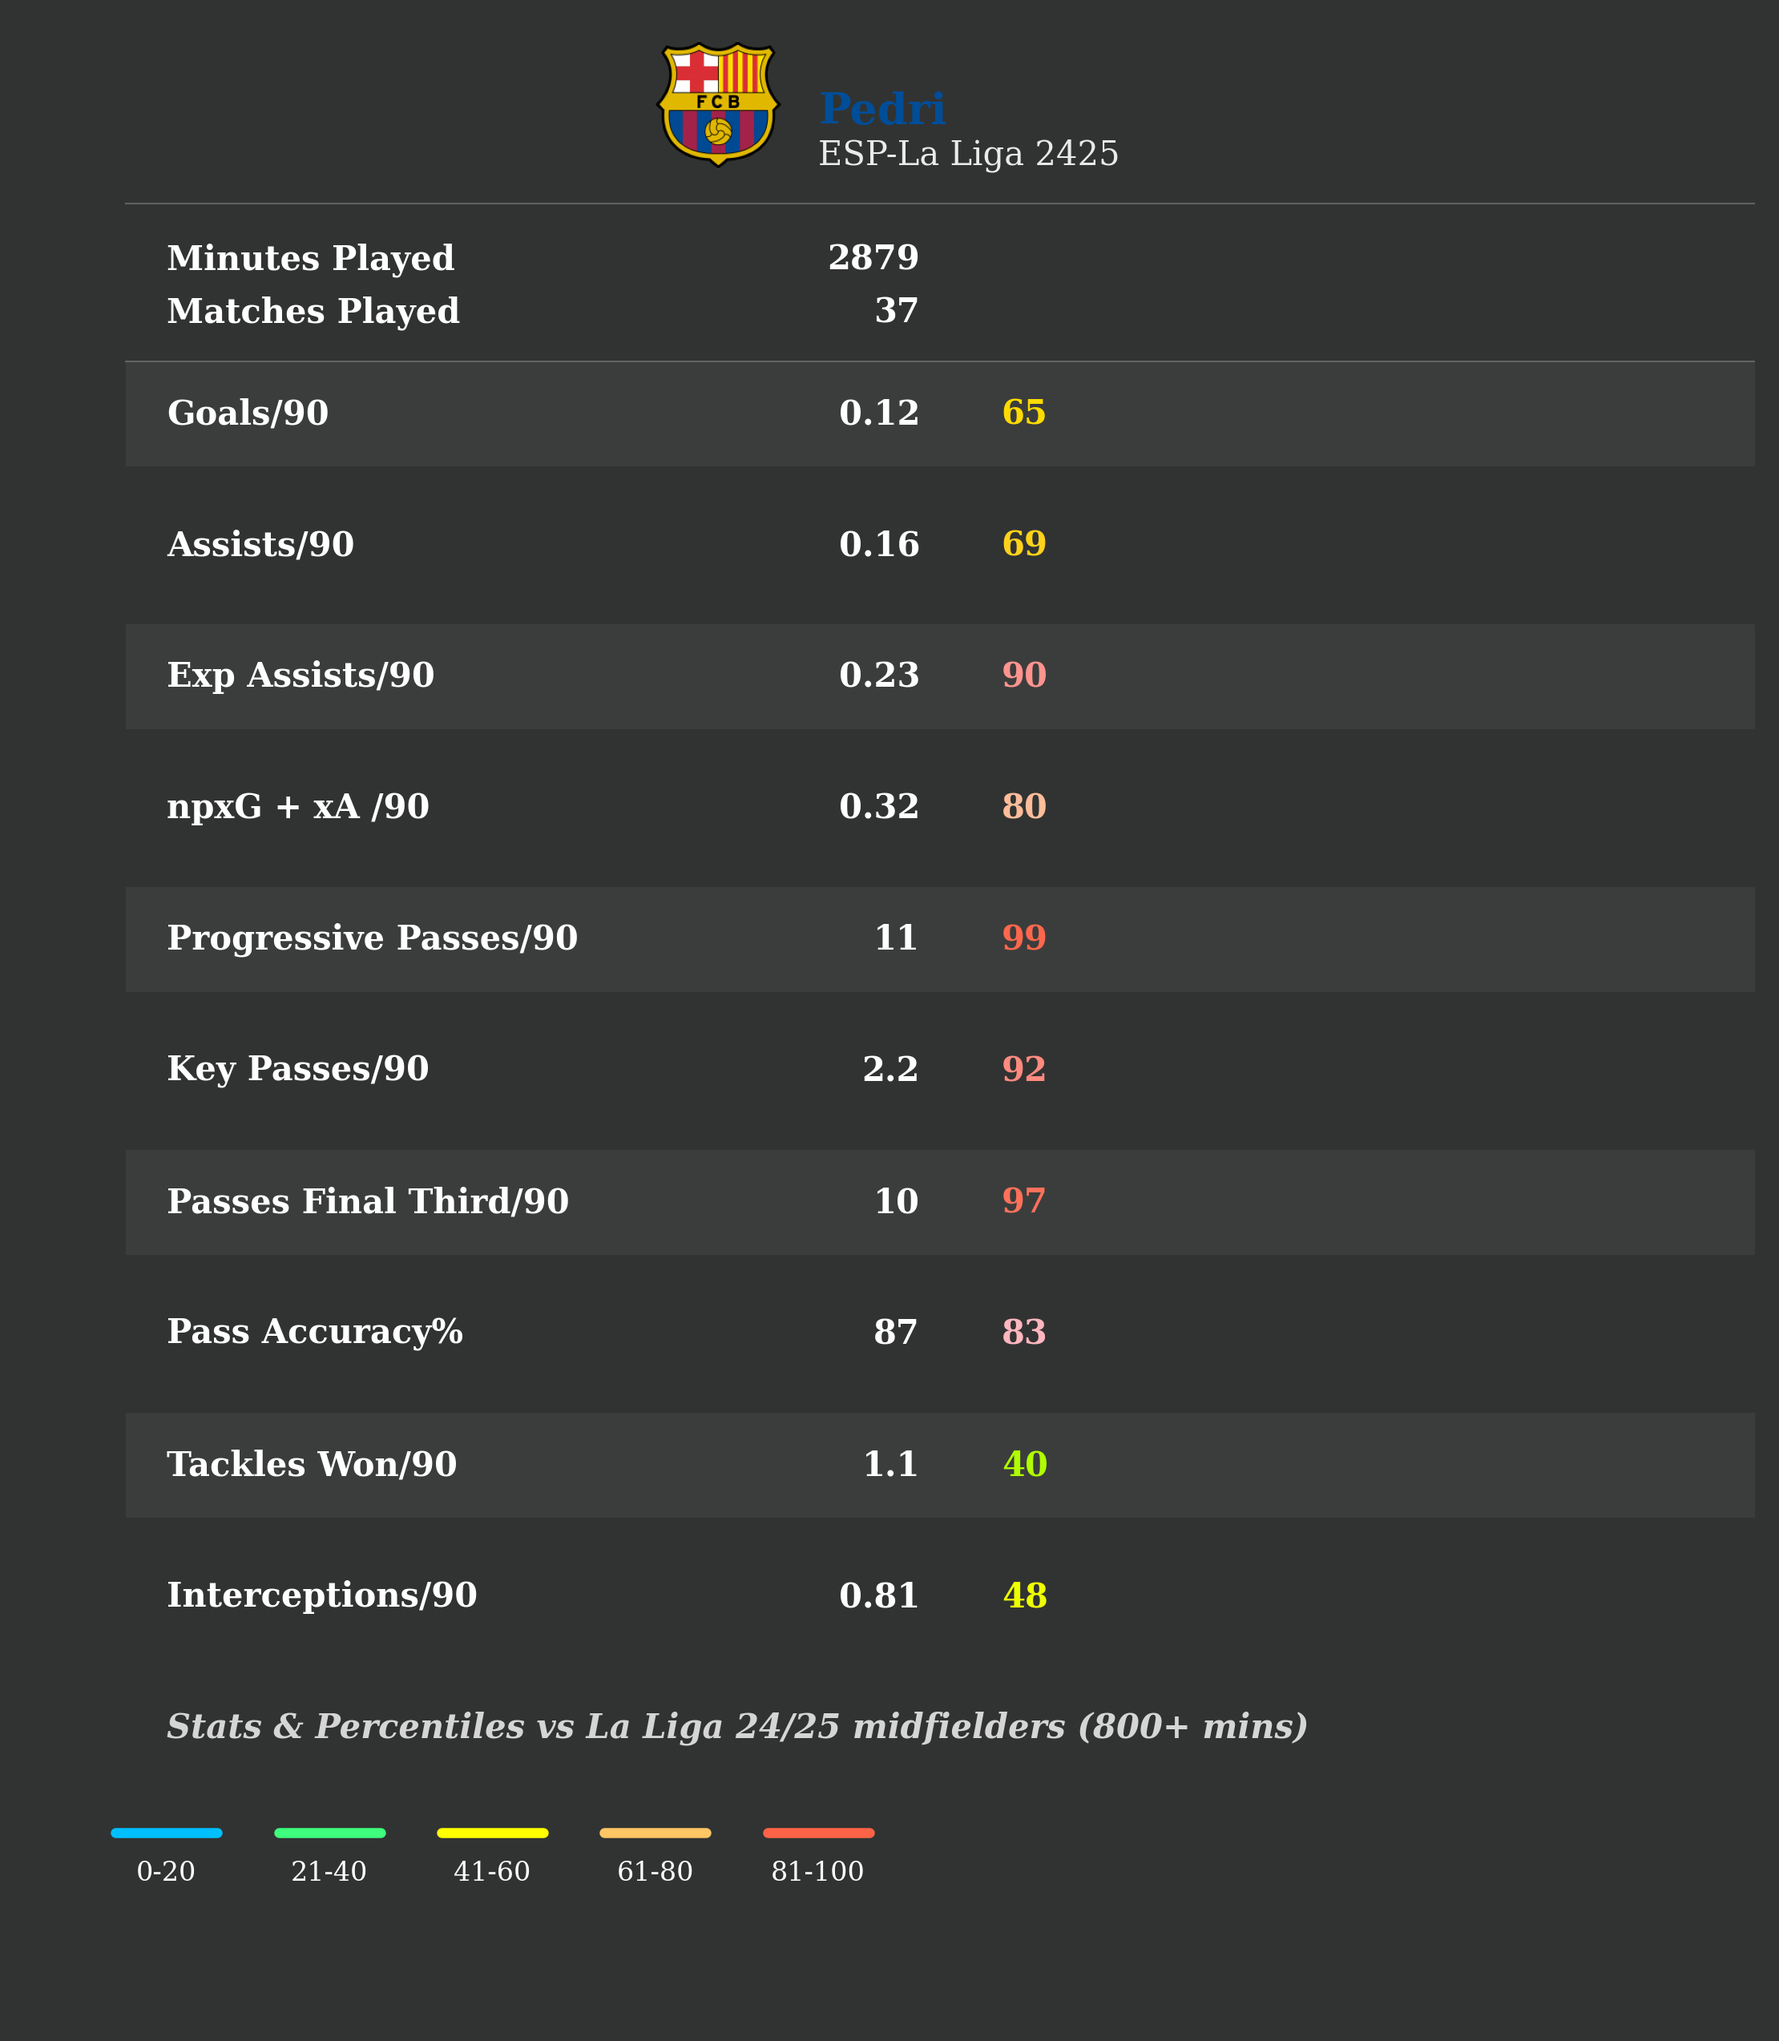
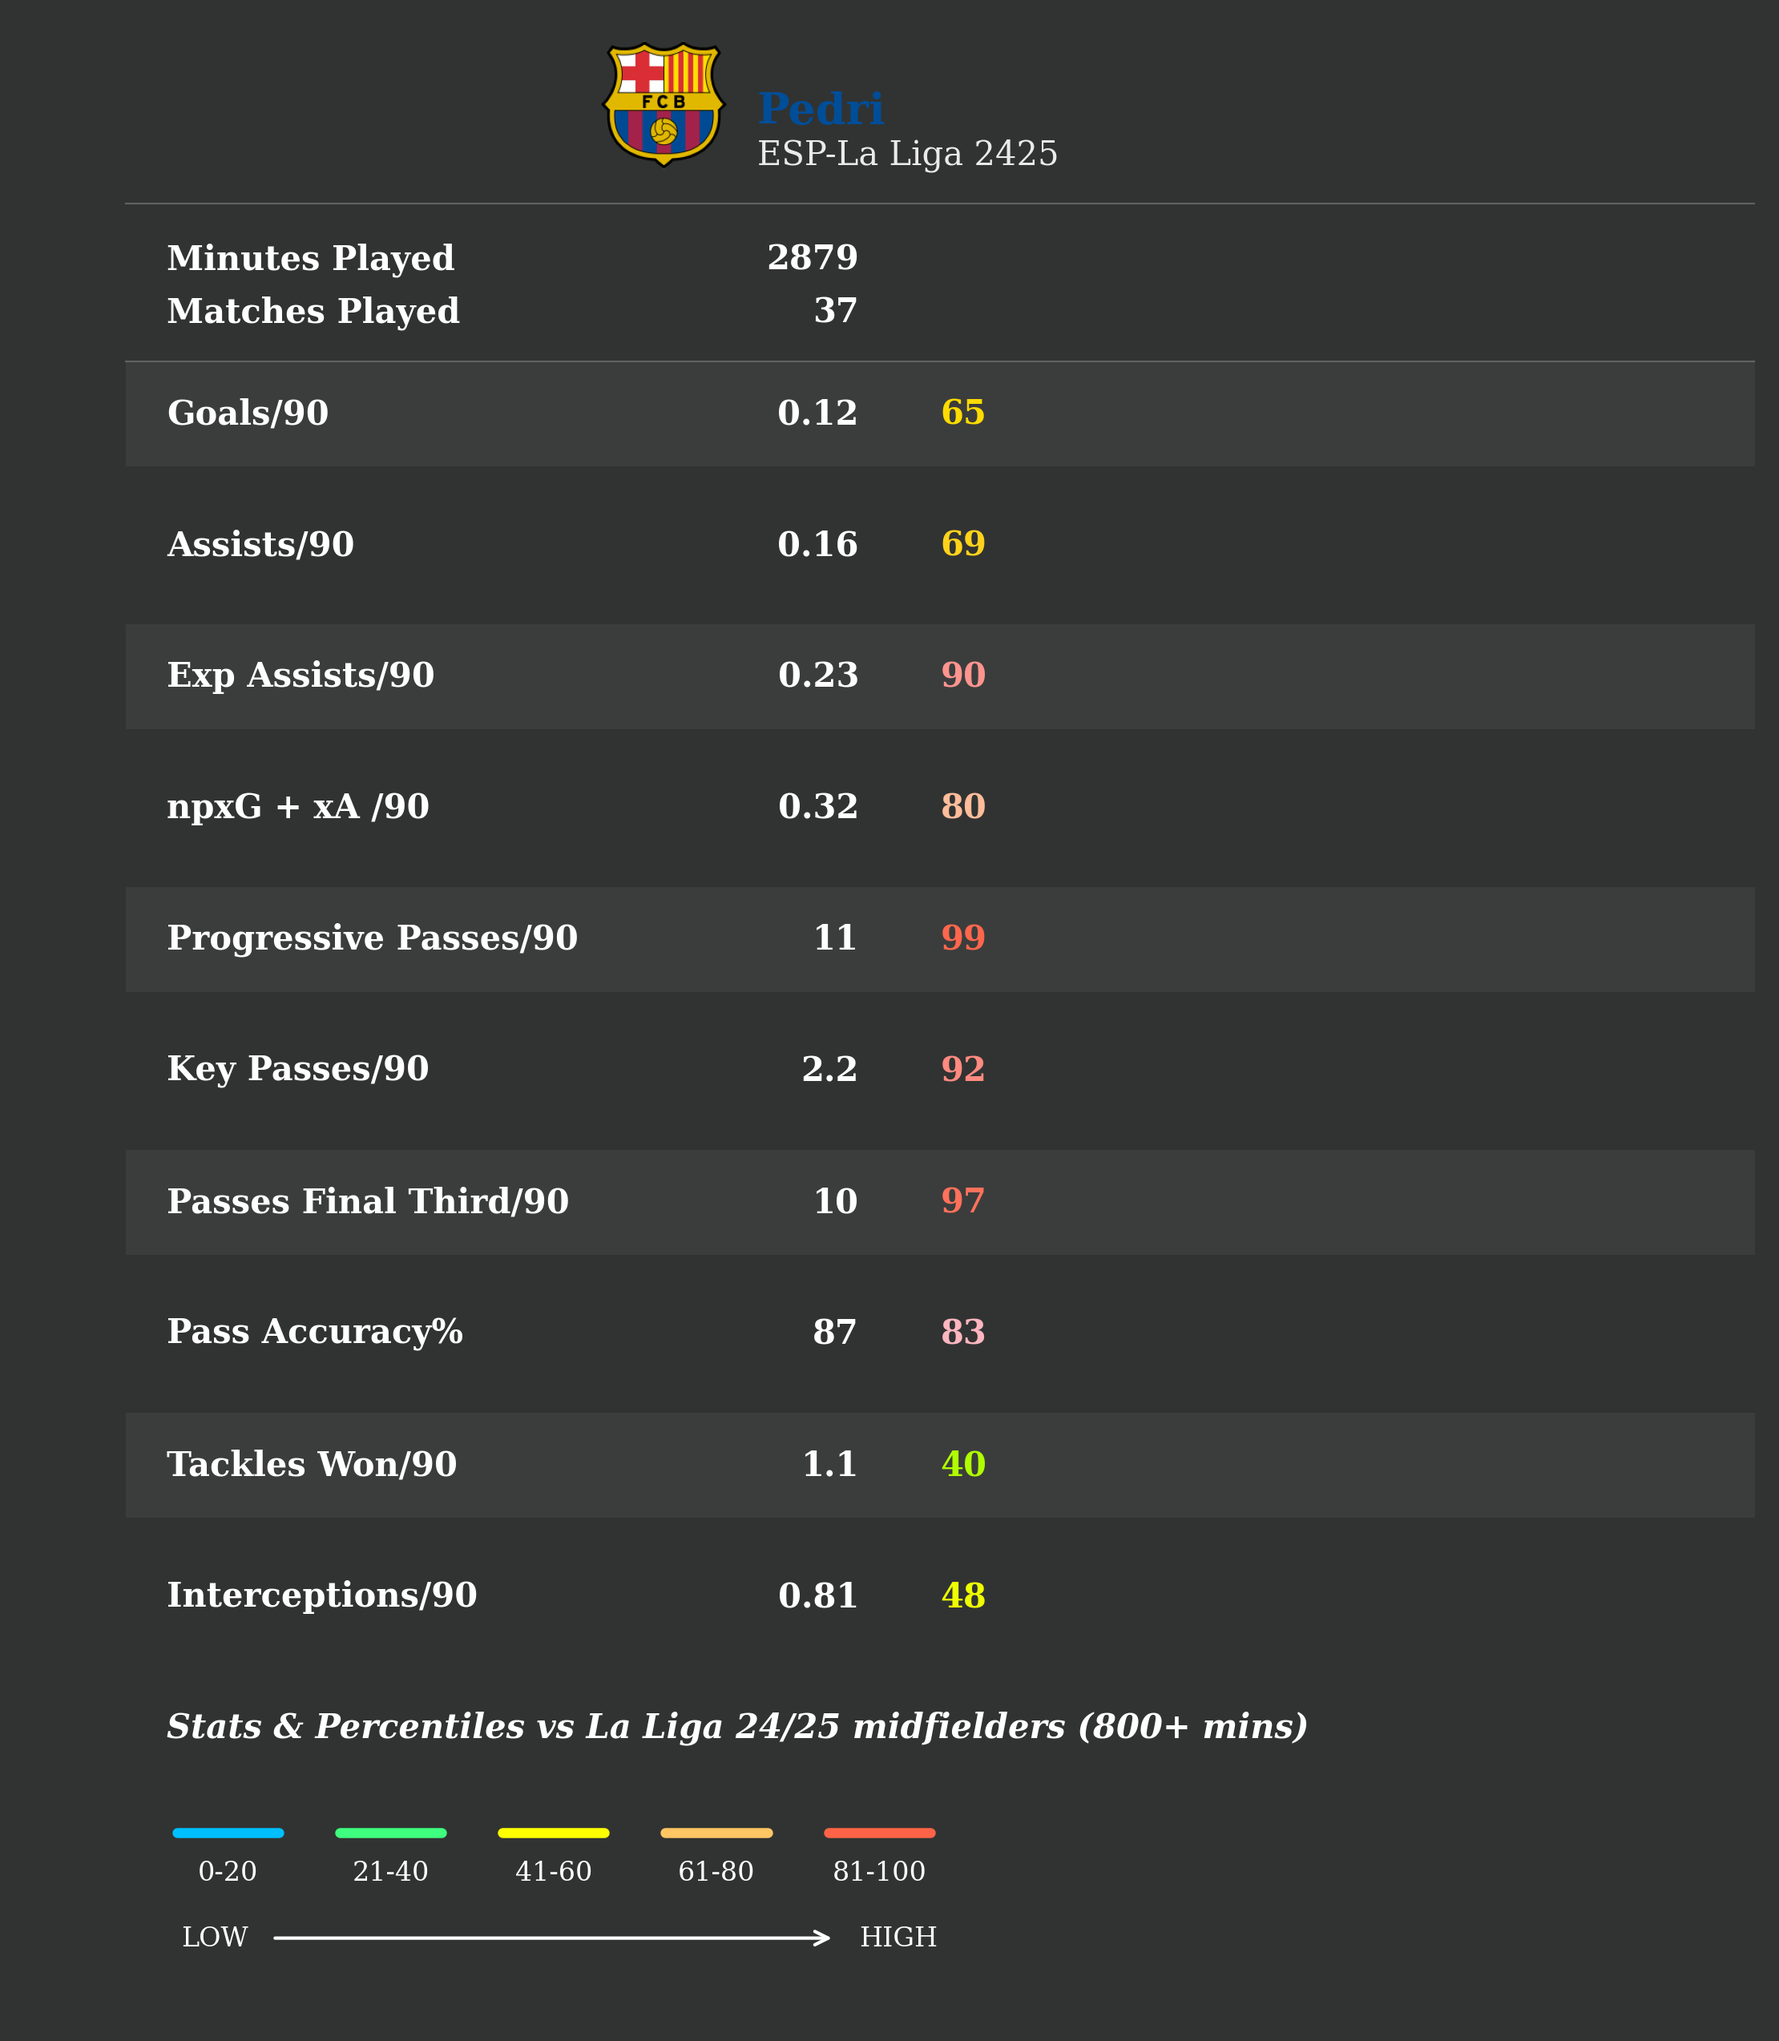
visuals stats table

diff --git a/viz/stats_table.py b/viz/stats_table.py
@@ -2,7 +2,7 @@ import pandas as pd
 import numpy as np
 import matplotlib.pyplot as plt
 import matplotlib.patches as patches
-from matplotlib.patches import Rectangle
+from matplotlib.patches import Rectangle, FancyArrowPatch, ArrowStyle
 import matplotlib.patheffects as path_effects
 import matplotlib.colors as mcolors
 from matplotlib.colors import Normalize
@@ -11,13 +11,15 @@ import os
 
 BACKGROUND_COLOR = '#313332'
 
+# Dimensiones fijas basadas en swarm actual
+SWARM_TOTAL_SIZE = (4945, 2755)
+SWARM_RADAR_SIZE = (2625, 2755) 
+SWARM_TABLE_SIZE = (2320, 2755)
+
 def create_stats_table(df_data, player_1_id, metrics, metric_titles, 
                       player_2_id=None, team_colors=None, 
                       save_path='stats_table.png', show_plot=True,
                       team_logos=None, footer_text='Percentiles vs dataset'):
-    """
-    Crea tabla de estadísticas con estilo visual unificado con pass_network.
-    """
     
     if team_colors is None:
         team_colors = ['#FF6B6B', '#4ECDC4']
@@ -33,7 +35,6 @@ def create_stats_table(df_data, player_1_id, metrics, metric_titles,
     if player_2_id is not None:
         p2 = df_data[df_data['unique_player_id'] == player_2_id].iloc[0]
     
-    # Layout unificado - siempre usar dimensiones de 2 jugadores
     fig = plt.figure(figsize=(7.5, 8.5), facecolor=BACKGROUND_COLOR)
     ax = fig.add_subplot(111)
     ax.set_facecolor(BACKGROUND_COLOR)
@@ -41,17 +42,17 @@ def create_stats_table(df_data, player_1_id, metrics, metric_titles,
     ax.set_ylim(0, 15)
     ax.axis('off')
     
-    # Posiciones fijas para layout unificado
+    # Posiciones datos jugadores (movidas a la izquierda)
     y_start = 14.5
-    logo1_x = 3.65  # Movido a la izquierda
-    text1_x = 3.9   # Movido a la izquierda
-    p1_value_x = 4.4  # Movido a la izquierda
-    p1_pct_x = 4.8    # Movido a la izquierda
+    logo1_x = 3.35
+    text1_x = 3.6
+    p1_value_x = 4.1
+    p1_pct_x = 4.5
     
-    logo2_x = 6.45
-    text2_x = 6.5
-    p2_value_x = 7.0
-    p2_pct_x = 7.4
+    logo2_x = 6.15
+    text2_x = 6.2
+    p2_value_x = 6.7
+    p2_pct_x = 7.1
     
     # Header Jugador 1
     if team_logos and p1['team'] in team_logos:
@@ -68,7 +69,7 @@ def create_stats_table(df_data, player_1_id, metrics, metric_titles,
     ax.text(text1_x, y_start - 0.4, f"{p1['league']} {p1['season']}", 
             fontsize=10, color='white', alpha=0.9, ha='left', weight='normal', family='serif')
     
-    # Header Jugador 2 si existe
+    # Header Jugador 2
     if p2 is not None:
         if team_logos and p2['team'] in team_logos:
             try:
@@ -84,11 +85,10 @@ def create_stats_table(df_data, player_1_id, metrics, metric_titles,
         ax.text(text2_x, y_start - 0.4, f"{p2['league']} {p2['season']}", 
                 fontsize=10, color='white', alpha=0.9, ha='left', weight='normal', family='serif')
     
-    # Línea separadora header
     y_line = y_start - 0.7
     ax.plot([0.5, 8.5], [y_line, y_line], color='grey', linewidth=0.5, alpha=0.6)
     
-    # Contexto (Minutos y Partidos)
+    # Contexto
     y_context = y_start - 1.2
     
     ax.text(0.7, y_context, "Minutes Played", fontsize=10, color='white', weight='bold', family='serif')
@@ -147,7 +147,7 @@ def create_stats_table(df_data, player_1_id, metrics, metric_titles,
         ax.text(p1_pct_x, y_pos, f"{int(pct_1)}", 
                 fontsize=10, color=pct_color_1, ha='left', fontweight='bold', va='center', family='serif')
         
-        # Jugador 2 si existe
+        # Jugador 2
         if p2 is not None:
             val_2 = p2.get(metric, 0)
             pct_2 = p2.get(pct_col, 0)
@@ -171,7 +171,7 @@ def create_stats_table(df_data, player_1_id, metrics, metric_titles,
             ax.text(p2_pct_x, y_pos, f"{int(pct_2)}", 
                     fontsize=10, color=pct_color_2, ha='left', fontweight='bold', va='center', family='serif')
     
-    # Footer alineado con títulos de métricas
+    # Footer
     footer_y = y_metrics - (len(metrics) * row_height)
     
     if len(metrics) % 2 == 1:
@@ -179,9 +179,9 @@ def create_stats_table(df_data, player_1_id, metrics, metric_titles,
         ax.add_patch(rect)
     
     ax.text(0.7, footer_y, footer_text, 
-            fontsize=10, color='white', alpha=0.8, ha='left', style='italic', weight='bold', va='center', family='serif')
+            fontsize=10, color='white', ha='left', style='italic', weight='bold', va='center', family='serif')
     
-    # Leyenda de percentiles alineada con títulos
+    # Leyenda de percentiles (movida a la derecha)
     legend_y = footer_y - 0.8
     
     intervals = [(0, 20), (21, 40), (41, 60), (61, 80), (81, 100)]
@@ -190,13 +190,26 @@ def create_stats_table(df_data, player_1_id, metrics, metric_titles,
     spacing = 0.8
     
     for i, ((low, high), color) in enumerate(zip(intervals, interval_colors)):
-        x_pos = 0.7 + i * spacing
+        x_pos = 1.0 + i * spacing
         
         ax.plot([x_pos - 0.25, x_pos + 0.25], [legend_y, legend_y], 
                 color=color, linewidth=3, solid_capstyle='round')
         
         ax.text(x_pos, legend_y - 0.3, f"{low}-{high}", 
                 fontsize=8, color='white', ha='center', va='center', family='serif')
+    
+    # LOW → HIGH con flecha
+    arrow_y = legend_y - 0.8
+    arrow_start_x = 1.2
+    arrow_end_x = 4.0
+    
+    ax.annotate('', xy=(arrow_end_x, arrow_y), xytext=(arrow_start_x, arrow_y),
+                arrowprops=dict(arrowstyle='->', color='white', lw=1))
+    
+    ax.text(arrow_start_x - 0.1, arrow_y, 'LOW', fontsize=8, color='white', 
+            ha='right', va='center', family='serif')
+    ax.text(arrow_end_x + 0.1, arrow_y, 'HIGH', fontsize=8, color='white', 
+            ha='left', va='center', family='serif')
     
     plt.tight_layout()
     plt.savefig(save_path, dpi=300, bbox_inches='tight', facecolor=BACKGROUND_COLOR)
@@ -210,22 +223,20 @@ def create_stats_table(df_data, player_1_id, metrics, metric_titles,
 
 def combine_radar_and_table(radar_path, table_path, output_path='combined_visualization.png'):
     """
-    Combina radar y tabla horizontalmente manteniendo proporciones.
+    Combina radar y tabla con dimensiones fijas basadas en swarm.
     """
     
     radar_img = Image.open(radar_path)
     table_img = Image.open(table_path)
     
-    r_w, r_h = radar_img.size
-    t_w, t_h = table_img.size
+    # Forzar dimensiones exactas del swarm
+    radar_resized = radar_img.resize(SWARM_RADAR_SIZE, Image.Resampling.LANCZOS)
+    table_resized = table_img.resize(SWARM_TABLE_SIZE, Image.Resampling.LANCZOS)
     
-    scale = r_h / t_h
-    new_t_w = int(t_w * scale)
-    table_resized = table_img.resize((new_t_w, r_h), Image.Resampling.LANCZOS)
-    
-    combined = Image.new('RGB', (r_w + new_t_w, r_h), color=BACKGROUND_COLOR)
-    combined.paste(radar_img, (0, 0))
-    combined.paste(table_resized, (r_w, 0))
+    # Canvas fijo
+    combined = Image.new('RGB', SWARM_TOTAL_SIZE, color=BACKGROUND_COLOR)
+    combined.paste(radar_resized, (0, 0))
+    combined.paste(table_resized, (2625, 0))
     
     combined.save(output_path, dpi=(300, 300))
     
